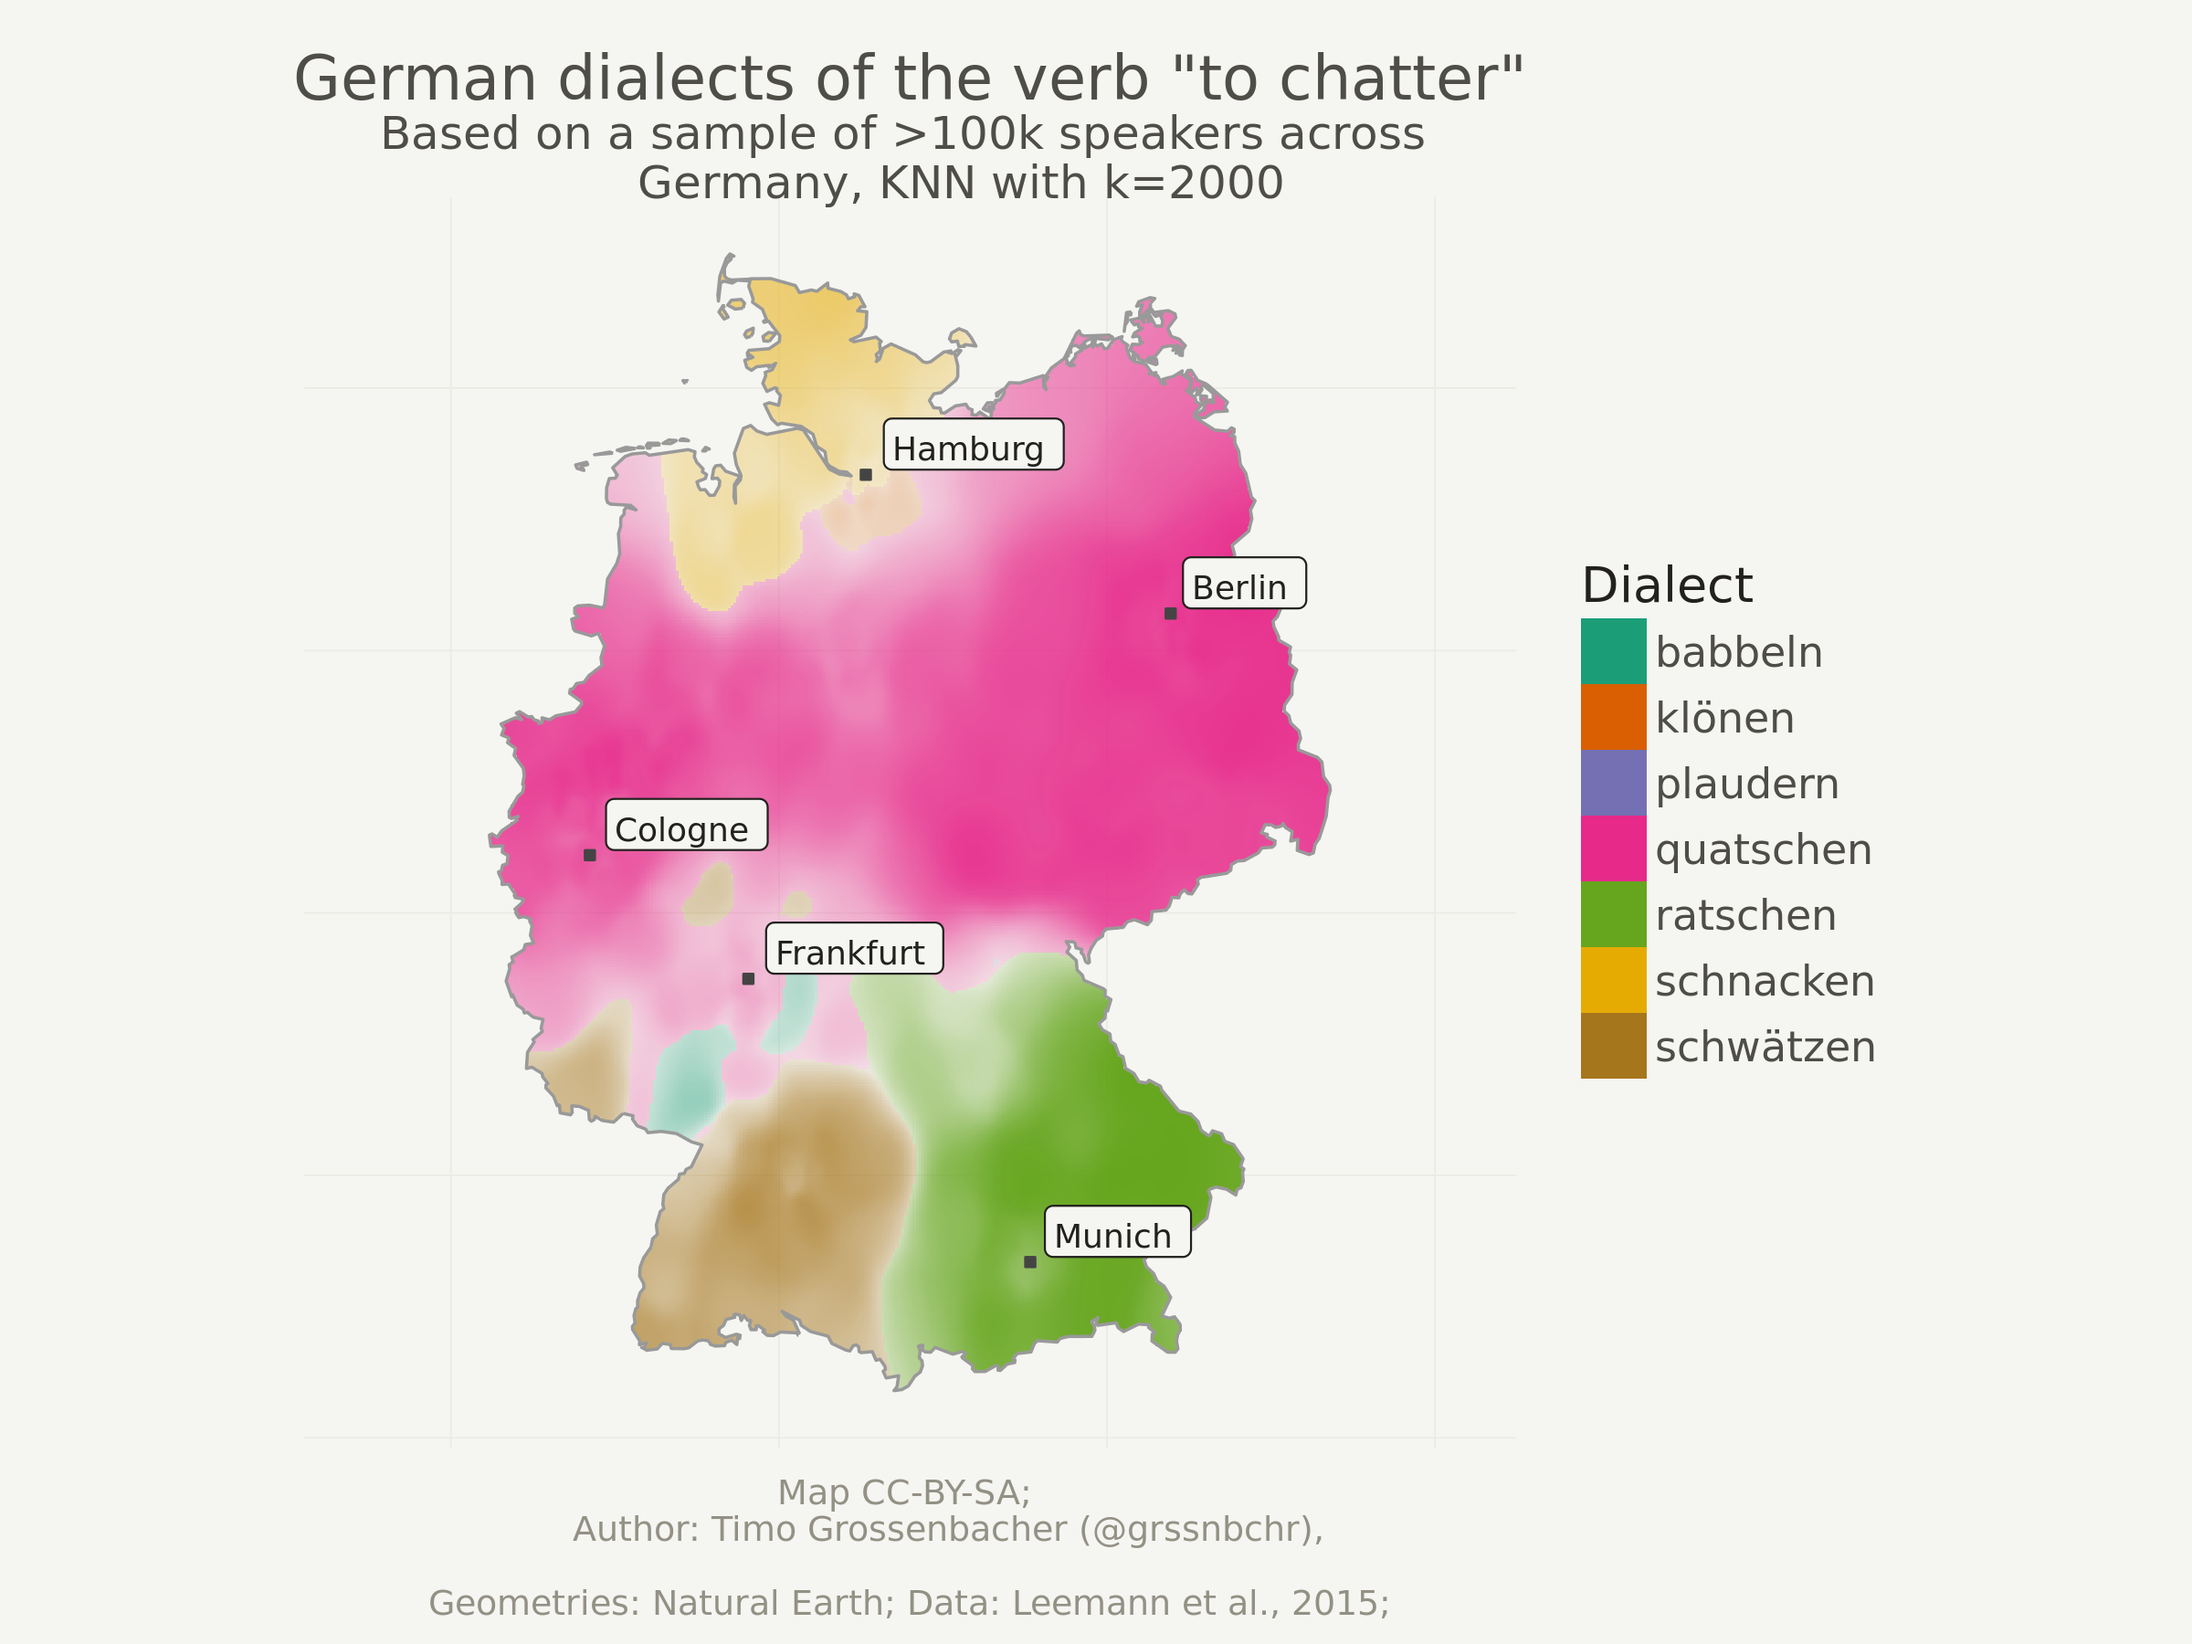
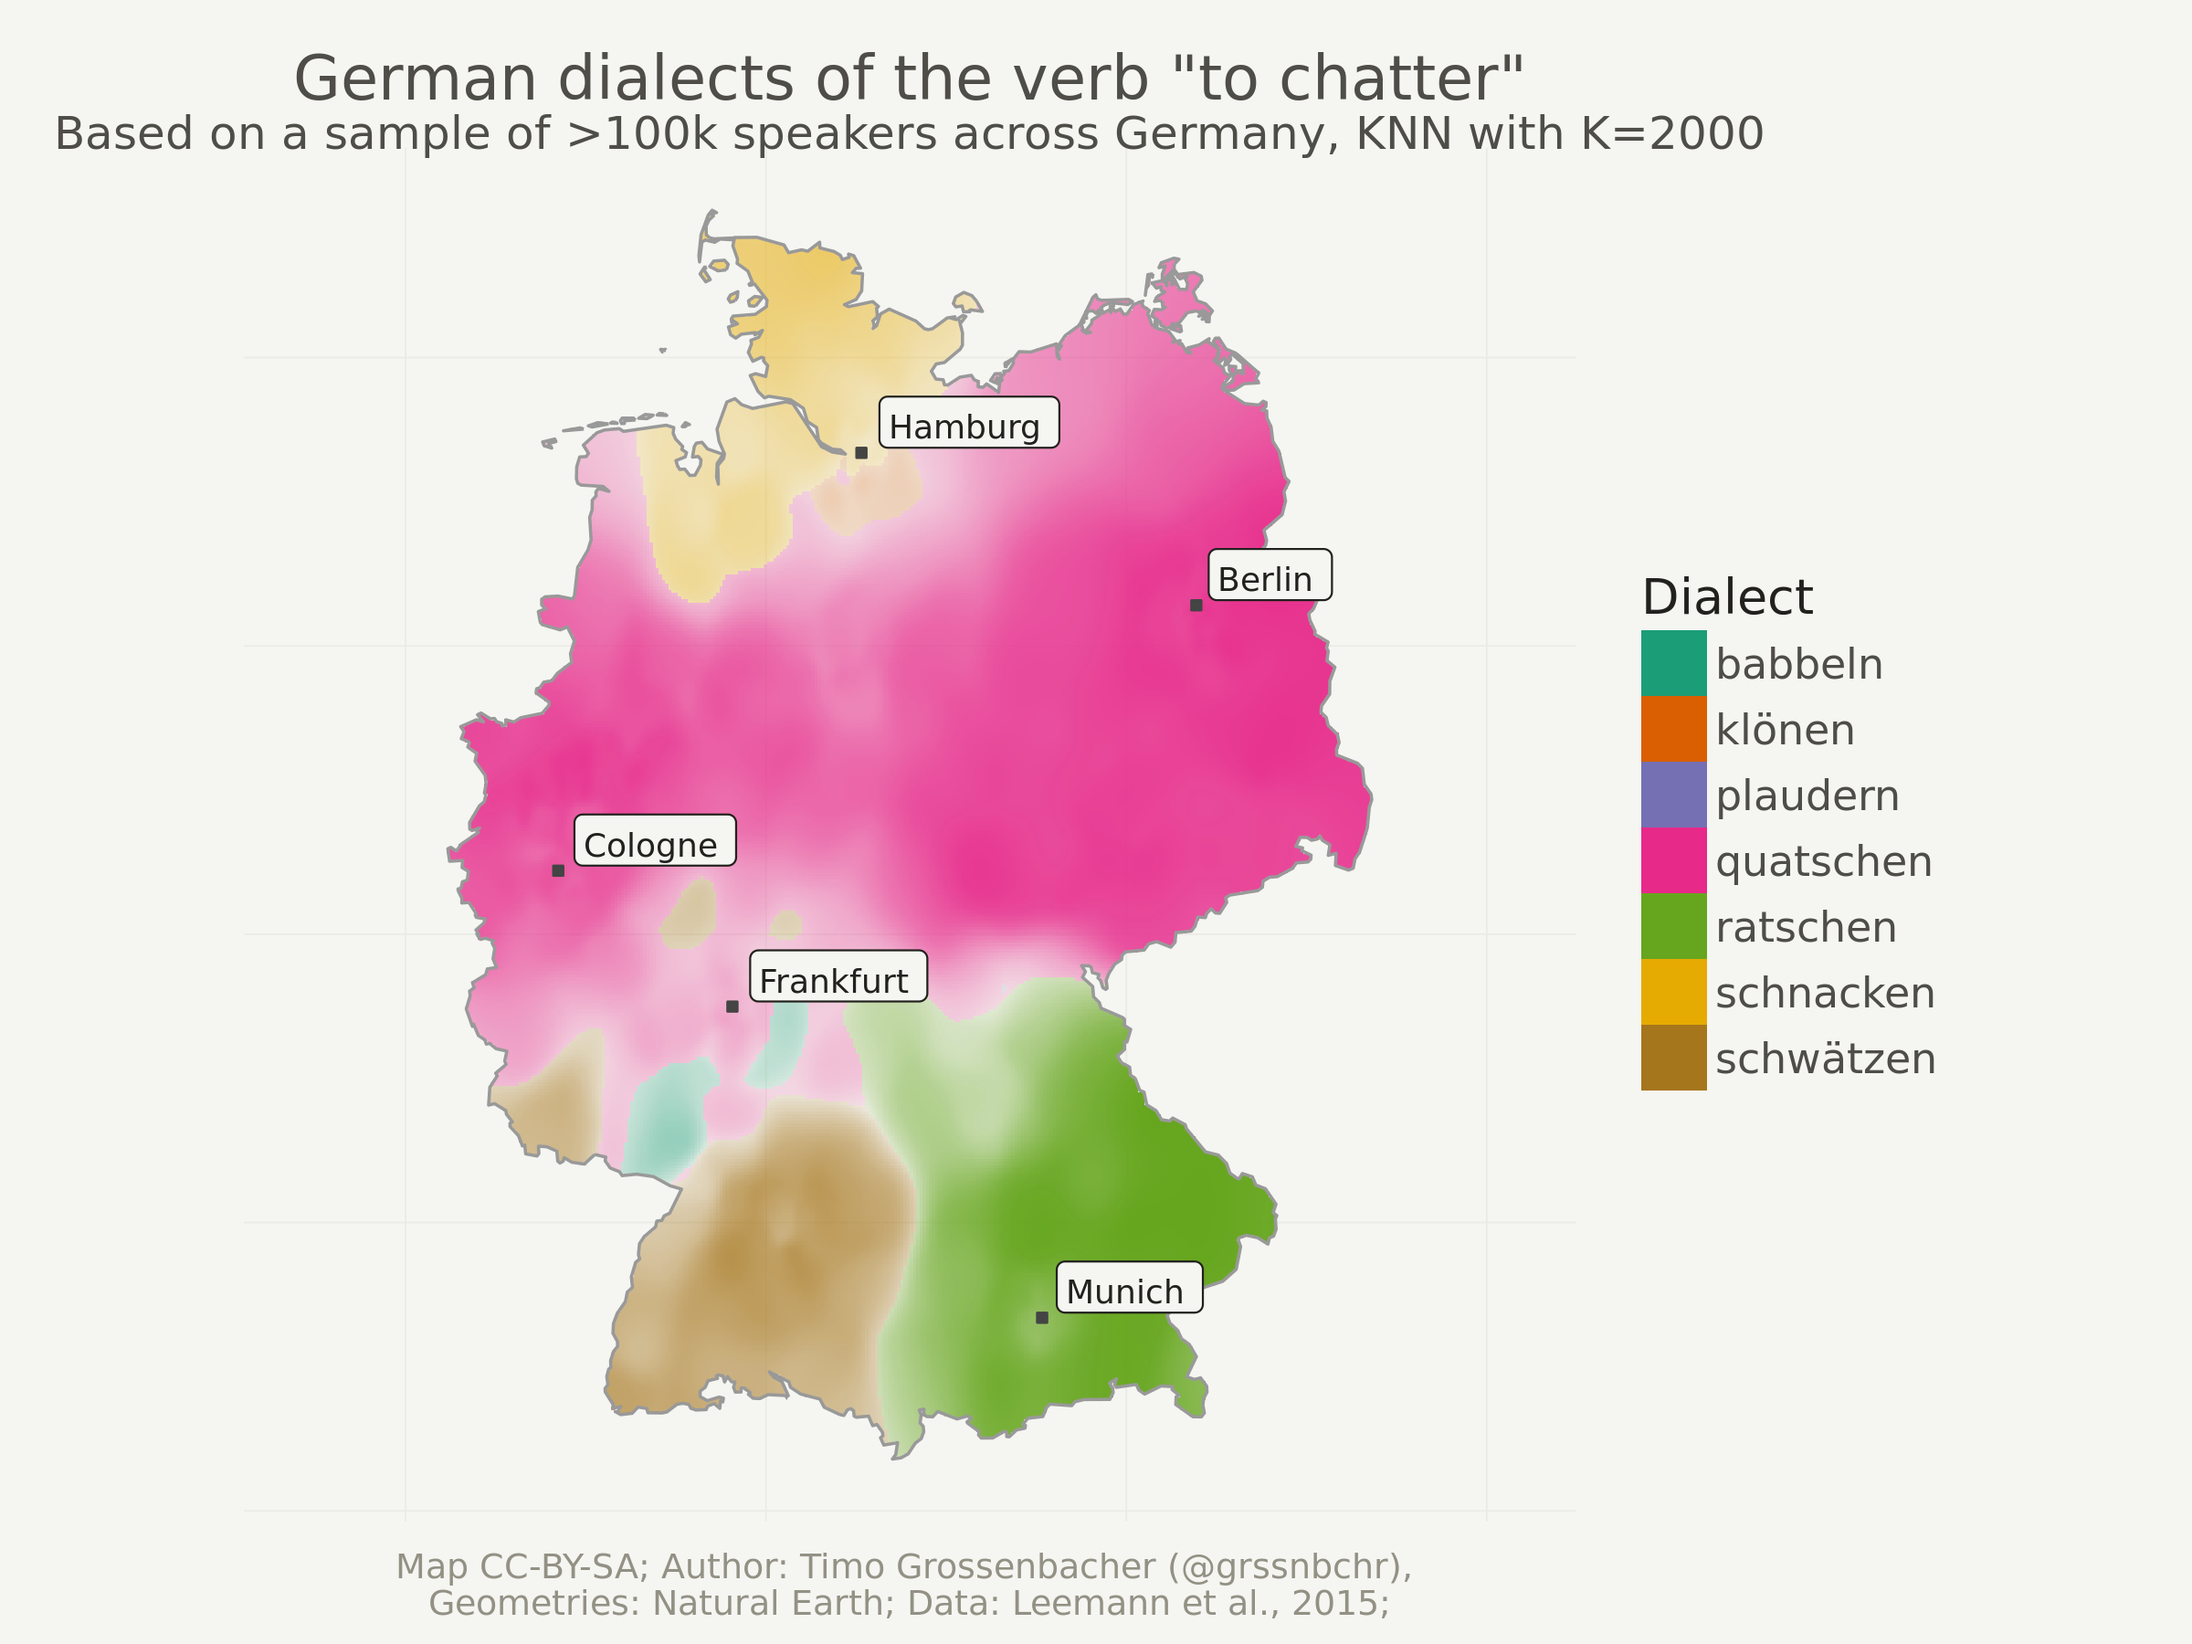
minor corrections

Changed region(s): [[0.0312, 0.0622, 0.8125, 0.9644], [0.7188, 0.3422, 0.875, 0.6844]]

diff --git a/analysis/index.md b/analysis/index.md
@@ -30,7 +30,7 @@ which was published last December. The georeferenced points underlying
 the interpolation are actually the result of a crowdsourcing project.
 Each point is the location of a person who selected a certain
 pronunciation in an online survey. [You can find more details
-here.](https://timogrossenbacher.ch/2017/03/heres-how-670000-people-speak-german/).
+here](https://timogrossenbacher.ch/2017/03/heres-how-670000-people-speak-german/).
 
 <img src="https://timogrossenbacher.ch/wp-content/uploads/2018/03/gruezi-moin-servus.png" />
 
@@ -39,13 +39,13 @@ dialects of "breakfast":
 
 <img src="https://timogrossenbacher.ch/wp-content/uploads/2018/03/gruezi-moin-servus-map.jpeg" />
 
-I actually tried to automate almost anything for that large-scale map
+I actually tried to automate everything for that large-scale map
 production, but one thing I couldn't automate: The placement of the
 (curved) labels for the dialects (I didn't use a legend in the final
-map). I did that in Adobe Illustrator. I can't imagine a way how this
-would automatically work for all possible edge cases (for example when
-the label has to be put outside of the map because the area is too
-small).
+maps as you can see above). I did that in Adobe Illustrator. I can't
+imagine a way how this would automatically work for all possible edge
+cases (for example when the label has to be put outside of the map
+because the area is too small).
 
 Outline {#outline}
 -------
@@ -94,11 +94,11 @@ Preparations {#preparations}
 
 ### Clear workspace and install necessary packages {#clear-workspace-and-install-necessary-packages}
 
-What follows fhere to the section **Load Data** is just my usual
+What follows from here until the section **Load Data** is just my usual
 routine: Detach all packages, remove all variables in the global
 environment, etc, and then load the packages from the MRAN server (a
 snapshot from September 1st, 2017). With this, I ensure [reproducibility
-and cross-OS
+and cross-device
 compatibility](https://timogrossenbacher.ch/2017/07/a-truly-reproducible-r-workflow/).
 I use my [freely available
 template](https://github.com/grssnbchr/rddj-template) for this, with
@@ -657,7 +657,7 @@ time.taken <- end.time - start.time
 time.taken
 ```
 
-    ## Time difference of 4.344954 mins
+    ## Time difference of 4.493436 mins
 
 ``` r
 # convert resulting df back to sf object, but do not remove raw geometry cols
@@ -831,14 +831,16 @@ ggplot(data = dialects_raster) +
   # enlarge canvas
   coord_equal(xlim = c(180000, 1020000)) +
   labs(title = "German dialects of the verb \"to chatter\"",
-       subtitle = "Based on a sample of >100k speakers across Germany, 
-       KNN with k=500",
-       caption = "Map CC-BY-SA; 
-       Author: Timo Grossenbacher (@grssnbchr), 
-       \nGeometries: Natural Earth; Data: Leemann et al., 2015;")
+       subtitle = "Based on a sample of >100k speakers across Germany, KNN with K=1000",
+       caption = "Map CC-BY-SA; Author: Timo Grossenbacher (@grssnbchr), \nGeometries: Natural Earth; Data: Leemann et al., 2015;")
 ```
 
 <img src="https://timogrossenbacher.ch/wp-content/uploads/2018/03/csi-visualize-interpolation-1.png" width="100%" />
+
+One last thing: You might have noticed that only 7 different dialects
+remain. Depending on the number of K, some dialects can be "overruled"
+by others. So if I'd set K to a very high number like 20'000, probably
+the globally most dominant dialect "quatschen" would remain.
 
 Another try with higher "k" {#another-try-with-higher-k}
 ---------------------------
@@ -849,6 +851,9 @@ as the computation with `k = 1000`, because computation time is a linear
 function of the number of neighbors that need to be taken into account
 for each grid cell. In other words: increasing `k` is a rather cheap
 operation in comparison to increasing the raster resolution.
+
+Notice how smaller regions disappear and how the boundaries between
+dialect regions are smoother.
 
 ``` r
 k <- 2000 # "k" for k-nearest-neighbour-interpolation
@@ -871,7 +876,7 @@ time.taken <- end.time - start.time
 time.taken
 ```
 
-    ## Time difference of 7.052619 mins
+    ## Time difference of 7.427421 mins
 
 ``` r
 # convert resulting df back to sf object, but do not remove raw geometry cols
@@ -913,11 +918,8 @@ ggplot(data = dialects_raster) +
   # enlarge canvas
   coord_equal(xlim = c(180000, 1020000)) +
   labs(title = "German dialects of the verb \"to chatter\"",
-       subtitle = "Based on a sample of >100k speakers across 
-       Germany, KNN with k=2000",
-       caption = "Map CC-BY-SA; 
-       Author: Timo Grossenbacher (@grssnbchr),
-       \nGeometries: Natural Earth; Data: Leemann et al., 2015;")
+       subtitle = "Based on a sample of >100k speakers across Germany, KNN with K=2000",
+       caption = "Map CC-BY-SA; Author: Timo Grossenbacher (@grssnbchr), \nGeometries: Natural Earth; Data: Leemann et al., 2015;")
 ```
 
 <img src="https://timogrossenbacher.ch/wp-content/uploads/2018/03/csi-higher-k-1.png" width="100%" />
@@ -927,7 +929,7 @@ always, [follow me on Twitter](https://twitter.com/grssnbchr) if you
 still don't.
 
 Now to some shameless self-promotion (that's the whole point of writing
-a blog, anyway): I recently launched a DataCamp course called
+a blog, anyway): I recently launched a **DataCamp course** called
 [Communicating with Data in the
 Tidyverse](https://www.datacamp.com/courses/communicating-with-data-in-the-tidyverse).
 It covers some of the basics which you need to master in order to do
@@ -935,3 +937,5 @@ fancy stuff like I did here. It especially shows you some tricks on how
 to customize `ggplot2` to produce unconventional plots like the ones
 shown here. `ggplot2` is so powerful, you won't believe what you can do
 with it until you see it!
+
+<img src="https://assets.datacamp.com/production/course_5807/shields/original/shield_image_course_5807_20180314-12-1przogj?1521031618" />
